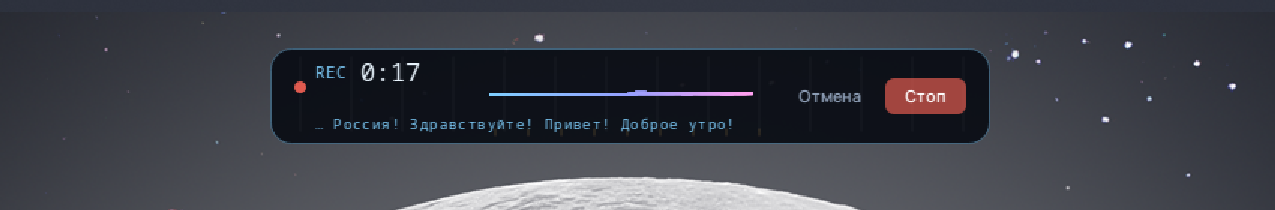
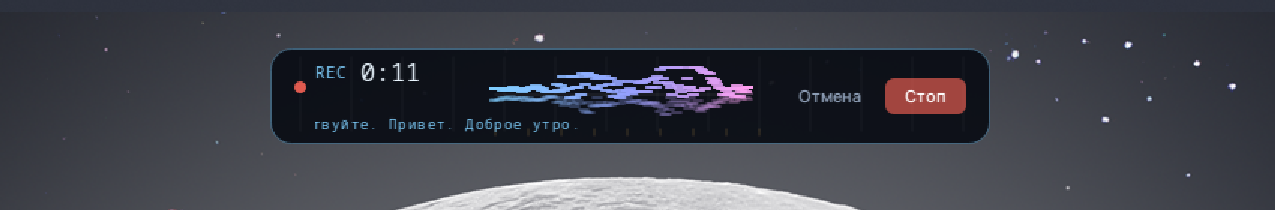
feat(preview): плавная бегущая строка и дешёвые запросы
- HUD двигает текст влево (~50 px/с) с обрезкой по области, хвост виден
- окно предпросмотра 8 с, интервал 1.8 с: запрос 0.4–0.7 с вместо 1.1–1.4 с,
  сервер занят ~29 % времени записи вместо ~100 %
- микрофон возвращён на @DEFAULT_SOURCE@ (в конфиге оставался тестовый wd-pv-mic)

Changed region(s): [[0.3671, 0.3143, 0.6118, 0.5429], [0.2447, 0.5714, 0.5812, 0.6286], [0.3059, 0.2857, 0.3365, 0.3714]]

diff --git a/whisper_station/hud.py b/whisper_station/hud.py
@@ -10,8 +10,8 @@ from __future__ import annotations
 
 from collections import deque
 
-from PySide6.QtCore import QElapsedTimer, QRectF, Qt, QTimer, Signal
-from PySide6.QtGui import QColor, QFont, QGuiApplication, QPainter, QPen
+from PySide6.QtCore import QElapsedTimer, QPointF, QRectF, Qt, QTimer, Signal
+from PySide6.QtGui import QColor, QFont, QFontMetrics, QGuiApplication, QPainter, QPen
 from PySide6.QtWidgets import QPushButton, QWidget
 
 # Заголовок — маркер для правила KWin; окно настроек его не содержит.
@@ -33,6 +33,9 @@ GRID = QColor(255, 255, 255, 10)
 TICK = QColor(224, 176, 80, 60)
 CENTER_LINE = QColor(255, 255, 255, 24)
 WAVE_GAIN = 2.0
+PREVIEW_SCROLL_SPEED = 1.7  # пикселей за тик 33 мс (~50 px/с)
+PREVIEW_LEFT = 30
+PREVIEW_RIGHT_PAD = 190
 
 
 def _blend(first: QColor, second: QColor, t: float) -> QColor:
@@ -69,6 +72,10 @@ class Hud(QWidget):
 
         self._state = "idle"
         self._preview_text = ""
+        self._scroll_offset = 0.0
+        self._scroll = QTimer(self)
+        self._scroll.setInterval(33)
+        self._scroll.timeout.connect(self._advance_scroll)
         self._bands: deque[tuple[float, float]] = deque(maxlen=WAVE_BARS)
         self._elapsed = QElapsedTimer()
         self._tick = QTimer(self)
@@ -101,12 +108,36 @@ class Hud(QWidget):
 
     def set_preview(self, text: str) -> None:
         """Показать живой предпросмотр распознавания (эксперимент)."""
-        self._preview_text = text.strip()
+        text = text.strip()
+        if text and not self._preview_text:
+            self._scroll_offset = 0.0
+        self._preview_text = text
         self.update()
+
+    def _preview_font(self) -> QFont:
+        font = QFont("monospace")
+        font.setStyleHint(QFont.StyleHint.Monospace)
+        font.setPointSizeF(7.0)
+        font.setLetterSpacing(QFont.SpacingType.AbsoluteSpacing, 1.4)
+        return font
+
+    def _advance_scroll(self) -> None:
+        """Плавно уводить строку влево, пока виден не весь текст."""
+        if not self._preview_text:
+            return
+        metrics = QFontMetrics(self._preview_font())
+        full = metrics.horizontalAdvance(self._preview_text)
+        available = WIDTH - PREVIEW_RIGHT_PAD - PREVIEW_LEFT
+        target = min(0.0, available - full)
+        if self._scroll_offset > target:
+            self._scroll_offset = max(target, self._scroll_offset - PREVIEW_SCROLL_SPEED)
+            self.update()
 
     def begin_recording(self) -> None:
         self._state = "recording"
         self._preview_text = ""
+        self._scroll_offset = 0.0
+        self._scroll.start()
         self._bands.clear()
         self._elapsed.restart()
         self._tick.start()
@@ -119,8 +150,13 @@ class Hud(QWidget):
 
     def finish(self) -> None:
         self._tick.stop()
+        self._scroll.stop()
         self._state = "idle"
         self._preview_text = ""
+        self._scroll_offset = 0.0
+        self._scroll = QTimer(self)
+        self._scroll.setInterval(33)
+        self._scroll.timeout.connect(self._advance_scroll)
         self._preview_text = ""
         self._bands.clear()
         self.hide()
@@ -229,12 +265,18 @@ class Hud(QWidget):
         painter.setFont(label_font)
         painter.setPen(MUTED)
         if self._preview_text:
-            painter.setPen(ACCENT)
-            metrics = painter.fontMetrics()
-            text = metrics.elidedText(
-                self._preview_text, Qt.TextElideMode.ElideLeft, WIDTH - 200
+            painter.save()
+            painter.setFont(self._preview_font())
+            available = WIDTH - PREVIEW_RIGHT_PAD - PREVIEW_LEFT
+            painter.setClipRect(
+                QRectF(PREVIEW_LEFT, HEIGHT - 24, available, 18)
             )
-            painter.drawText(30, HEIGHT - 10, text)
+            painter.setPen(ACCENT)
+            painter.drawText(
+                QPointF(PREVIEW_LEFT + self._scroll_offset, HEIGHT - 10),
+                self._preview_text,
+            )
+            painter.restore()
         else:
             label = "Распознаю…" if self._state == "transcribing" else "WHISPER STATION"
             painter.setPen(MUTED)

diff --git a/whisper_station/preview.py b/whisper_station/preview.py
@@ -21,8 +21,8 @@ from .stt import SttError, transcribe
 
 log = logging.getLogger(__name__)
 
-INTERVAL_MS = 1200
-MAX_SECONDS = 15.0
+INTERVAL_MS = 1800
+MAX_SECONDS = 8.0
 TIMEOUT = 20.0
 
 

diff --git a/docs/DECISIONS.md b/docs/DECISIONS.md
@@ -92,10 +92,11 @@ KWin присылает `globalShortcutPressed` на нажатие и `globalSh
 Пока идёт запись, раз в 1.5 с последние 20 с аудио уходят в Whisper, а текст
 показывается в нижней строке HUD. Целевое окно и буфер обмена не затрагиваются:
 финальный текст по-прежнему вставляется только после остановки.
-Строка в HUD показывает **хвост** распознанного (новые слова справа, старые уходят
-влево, как в бегущей строке), а ответы, которые короче прежнего и являются его
-префиксом, отбрасываются — иначе строка прыгала назад. Запросы идут только пока
-идёт запись: таймер запускается вместе с ней и останавливается на стоп/отмене.
+Строка в HUD — плавная бегущая строка: текст едет влево на ~50 px/с, пока не
+покажет хвост. Ответы-префиксы (обрезанное аудио) отбрасываются, чтобы строка не
+прыгала назад. Окно — последние 8 с, интервал 1.8 с: запрос занимает 0.4–0.7 с
+(на 21.8 с аудио было 1.1–1.4 с, то есть ~100 % времени сервера). Запросы идут
+только пока идёт запись: таймер запускается вместе с ней и останавливается на стоп/отмене.
 Включается `[preview] live = true` или галочкой в настройках.
 **Платим:** пока флаг включён, сервер распознавания получает запросы в 1.5 с
 вместо одного на диктовку; выключение флага возвращает прежнее поведение.

diff --git a/docs/VERIFICATION.md b/docs/VERIFICATION.md
@@ -140,7 +140,9 @@ PySide6 6.12.0. Сервер Whisper: `large-v3-turbo`, CUDA float16, `127.0.0.1
 | Флаг выключен | поведение прежнее: текст появляется только после остановки |
 | Флаг включён, виртуальный источник | в HUD во время записи появилось «Доброе утро!» (REC 0:05) |
 | Буфер и окно | предпросмотр в них не пишет: вставка только по остановке |
-| Затраты | один запрос в 1.2 с на последние 15 с аудио, только во время записи |
+| Затраты | окно 8 с -> 0.42–0.73 с на запрос; интервал 1.8 с -> ~29 % времени сервера во время записи |
+| Было | окно 21.8 с -> 1.1–1.4 с на запрос, интервал 1.2 с -> ~100 % (слишком много) |
+| Бегущая строка | текст плавно едет влево (1.7 px/33 мс), хвост остаётся видимым |
 | Бегущая строка | на 12 с и 17 с записи видимая часть сдвигается (хвост с «…») |
 | Прыжки назад | обрезанные ответы-префиксы отбрасываются |
 
